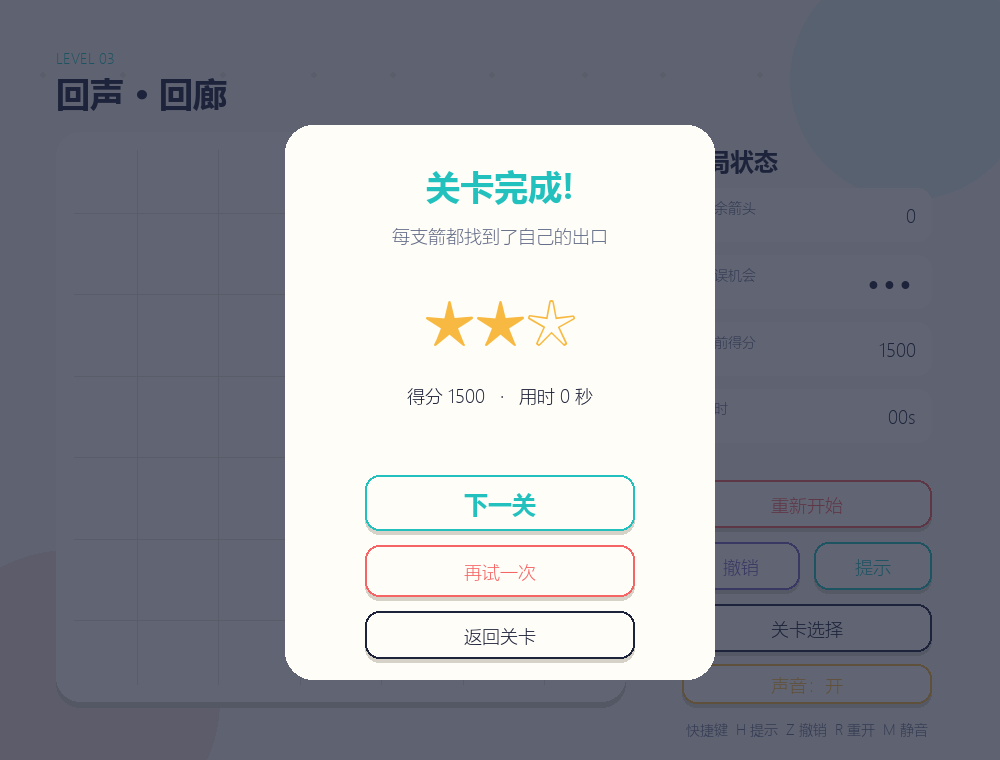
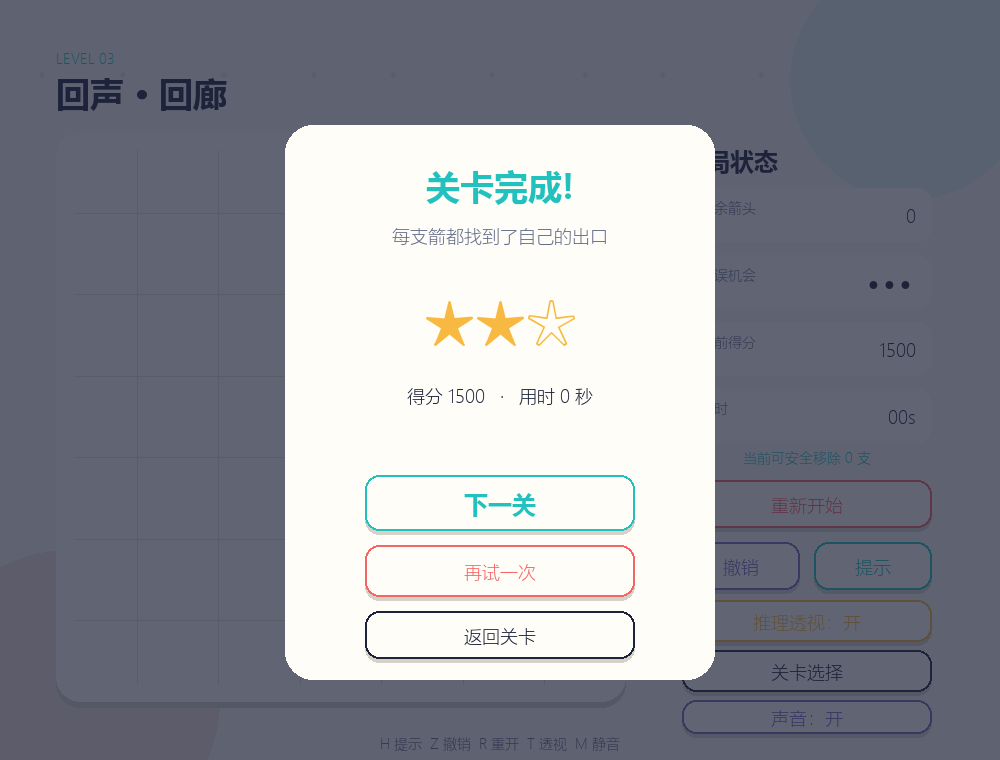
"feat:add-explainable-reasoning-view"

diff --git a/main.py b/main.py
@@ -52,6 +52,7 @@ class GameApp:
         self.blocked_pos: tuple[int, int] | None = None
         self.hint_pos: tuple[int, int] | None = None
         self.hint_at = 0
+        self.reasoning_view = False
         self.toast = ""
         self.toast_at = 0
         self.unlocked, self.best_scores = self._load_progress()
@@ -93,6 +94,7 @@ class GameApp:
         self.flying.clear()
         self.blocked_pos = None
         self.hint_pos = None
+        self.reasoning_view = False
 
     def elapsed(self) -> int:
         if self.finished_elapsed is not None:
@@ -150,9 +152,14 @@ class GameApp:
             return
         if buttons[3].hit(position):
             self.audio.play("button")
-            self.scene = "levels"
+            self.reasoning_view = not self.reasoning_view
+            self.toast_message("推理透视已开启：绿线可走，红线被阻挡" if self.reasoning_view else "推理透视已关闭")
             return
         if buttons[4].hit(position):
+            self.audio.play("button")
+            self.scene = "levels"
+            return
+        if buttons[5].hit(position):
             enabled = self.audio.toggle()
             self.toast_message("声音已开启" if enabled else "声音已关闭")
             return
@@ -197,8 +204,9 @@ class GameApp:
             Button(pygame.Rect(682, 480, 250, 48), "重新开始", CORAL),
             Button(pygame.Rect(682, 542, 118, 48), "撤销", LAVENDER, bool(self.state.history)),
             Button(pygame.Rect(814, 542, 118, 48), "提示", CYAN),
-            Button(pygame.Rect(682, 604, 250, 48), "关卡选择", INK),
-            Button(pygame.Rect(682, 664, 250, 40), self.audio.label, GOLD),
+            Button(pygame.Rect(682, 600, 250, 42), f"推理透视：{'开' if self.reasoning_view else '关'}", GOLD),
+            Button(pygame.Rect(682, 650, 250, 42), "关卡选择", INK),
+            Button(pygame.Rect(682, 700, 250, 34), self.audio.label, LAVENDER),
         ]
 
     def handle_event(self, event: pygame.event.Event) -> None:
@@ -220,6 +228,9 @@ class GameApp:
                     self.hint_at = pygame.time.get_ticks()
             elif event.key == pygame.K_m:
                 self.audio.toggle()
+            elif event.key == pygame.K_t and self.scene == "game":
+                self.reasoning_view = not self.reasoning_view
+                self.toast_message("推理透视已开启" if self.reasoning_view else "推理透视已关闭")
         if event.type != pygame.MOUSEBUTTONDOWN or event.button != 1:
             return
         pos = event.pos
@@ -325,6 +336,9 @@ class GameApp:
             pygame.draw.line(self.surface, (226, 222, 212), (x, board.top + 18), (x, board.bottom - 18))
             pygame.draw.line(self.surface, (226, 222, 212), (board.left + 18, y), (board.right - 18, y))
 
+        if self.reasoning_view:
+            self.draw_reasoning_paths(board, cell)
+
         palette = {"UP": CYAN, "DOWN": CORAL, "LEFT": GOLD, "RIGHT": LAVENDER}
         for arrow in self.state.arrows.values():
             center = list(self.cell_center(arrow.row, arrow.col))
@@ -351,6 +365,28 @@ class GameApp:
         if self.state.status is not GameStatus.PLAYING:
             self.draw_result_overlay()
 
+    def draw_reasoning_paths(self, board: pygame.Rect, cell: float) -> None:
+        """Expose the scan algorithm as an explainable, player-facing overlay."""
+        overlay = pygame.Surface(WINDOW_SIZE, pygame.SRCALPHA)
+        for arrow in self.state.arrows.values():
+            start = self.cell_center(arrow.row, arrow.col)
+            blocker = self.state.blocker_for(arrow.row, arrow.col)
+            dr, dc = arrow.direction.delta
+            if blocker is None:
+                distance = max(self.state.level.size, 2) * cell
+                end = (start[0] + dc * distance, start[1] + dr * distance)
+                end = (
+                    min(board.right - 10, max(board.left + 10, end[0])),
+                    min(board.bottom - 10, max(board.top + 10, end[1])),
+                )
+                color = (*CYAN, 95)
+            else:
+                end = self.cell_center(blocker.row, blocker.col)
+                color = (*CORAL, 105)
+                pygame.draw.circle(overlay, (*CORAL, 150), (round(end[0]), round(end[1])), max(8, int(cell * .14)), 3)
+            pygame.draw.line(overlay, color, start, end, max(3, int(cell * .055)))
+        self.surface.blit(overlay, (0, 0))
+
     def draw_sidebar(self) -> None:
         x = 682
         self.draw_text("本局状态", "h2", INK, (x, 144))
@@ -368,7 +404,10 @@ class GameApp:
             self.draw_text(value, "body", INK, (rect.right - 16, rect.centery), "midright")
         for button in self.game_buttons():
             button.draw(self.surface, self.fonts["body"], pygame.mouse.get_pos())
-        self.draw_text("快捷键  H 提示  Z 撤销  R 重开  M 静音", "small", MUTED, (807, 728), "center")
+        safe_count = len(self.state.safe_arrows())
+        insight = f"当前可安全移除 {safe_count} 支" if self.reasoning_view else "T 开关推理透视"
+        self.draw_text(insight, "small", CYAN if self.reasoning_view else MUTED, (807, 456), "center")
+        self.draw_text("H 提示  Z 撤销  R 重开  T 透视  M 静音", "small", MUTED, (500, 742), "center")
 
     def draw_result_overlay(self) -> None:
         shade = pygame.Surface(WINDOW_SIZE, pygame.SRCALPHA)
@@ -424,8 +463,10 @@ class GameApp:
         self.draw()
         pygame.image.save(self.surface, output_dir / "02_levels.png")
         self.start_level(2)
+        self.reasoning_view = True
         self.draw()
         pygame.image.save(self.surface, output_dir / "03_game.png")
+        pygame.image.save(self.surface, output_dir / "06_reasoning.png")
         while self.state.status is GameStatus.PLAYING:
             hint = self.state.hint()
             if hint is None:

diff --git a/tests/test_game_state.py b/tests/test_game_state.py
@@ -102,6 +102,13 @@ class DirectionAndExtraFeatureTests(unittest.TestCase):
         self.assertIsNotNone(hint)
         self.assertTrue(game.can_exit(hint.row, hint.col))
 
+    def test_reasoning_view_can_explain_first_blocker(self) -> None:
+        game = GameState(0)
+        blocker = game.blocker_for(2, 2)
+        self.assertIsNotNone(blocker)
+        self.assertEqual((2, 4), (blocker.row, blocker.col))
+        self.assertIsNone(game.blocker_for(0, 2))
+
     def test_every_level_is_solvable_and_uses_all_directions(self) -> None:
         for index, level in enumerate(LEVELS):
             with self.subTest(level=index + 1):

diff --git a/game_state.py b/game_state.py
@@ -79,6 +79,11 @@ class GameState:
         arrow = self.arrows.get((row, col))
         return arrow is not None and self._first_blocker(arrow) is None
 
+    def blocker_for(self, row: int, col: int) -> Arrow | None:
+        """Return the first visible blocker for UI explanations, if any."""
+        arrow = self.arrows.get((row, col))
+        return self._first_blocker(arrow) if arrow is not None else None
+
     def _remember(self) -> None:
         self.history.append(Snapshot(
             self.arrows.copy(), self.mistakes, self.score, self.status, self.hints_used

diff --git a/docs/BLOG_DRAFT.md b/docs/BLOG_DRAFT.md
@@ -1,6 +1,6 @@
 # 软件工程第二次个人作业：用 Python + AIGC 完成《一箭又一箭》
 
-> 发布前请替换 3 处 `【待填写】`，并将本文中的截图上传到博客图床或使用 GitHub Raw 链接。
+> 本文如实记录了 AIGC 辅助、人工试玩、自动测试和竞品分析过程。发布前只需补充作业链接与学号。
 
 | 项目 | 内容 |
 | --- | --- |
@@ -16,27 +16,67 @@
 
 ### 开始与关卡选择
 
-![开始界面](../assets/screenshots/01_start.png)
+![开始界面](https://raw.githubusercontent.com/Luminance-l/OneArrowGame/main/assets/screenshots/01_start.png)
 
-![关卡选择](../assets/screenshots/02_levels.png)
+![关卡选择](https://raw.githubusercontent.com/Luminance-l/OneArrowGame/main/assets/screenshots/02_levels.png)
 
 ### 游戏过程
 
-![游戏界面](../assets/screenshots/03_game.png)
+![游戏界面](https://raw.githubusercontent.com/Luminance-l/OneArrowGame/main/assets/screenshots/03_game.png)
+
+### 推理透视
+
+![推理透视](https://raw.githubusercontent.com/Luminance-l/OneArrowGame/main/assets/screenshots/06_reasoning.png)
+
+按 `T` 或点击“推理透视”可以把路径判断过程直接画在棋盘上：绿色表示前方无遮挡，红色表示被其他箭头阻挡，红圈标出第一个阻挡物。该功能默认关闭，不替玩家自动通关；它更像一张可以随时打开的“解题草稿纸”。
 
 ### 通关与失败
 
-![通关界面](../assets/screenshots/04_clear.png)
+![通关界面](https://raw.githubusercontent.com/Luminance-l/OneArrowGame/main/assets/screenshots/04_clear.png)
 
-![失败界面](../assets/screenshots/05_failed.png)
+![失败界面](https://raw.githubusercontent.com/Luminance-l/OneArrowGame/main/assets/screenshots/05_failed.png)
 
 ## 二、项目介绍
 
 棋盘中的每支箭只占一个格子，方向分为上、下、左、右。玩家点击箭头后，程序沿其朝向检查同一行或同一列：如果箭头和边界之间没有其他箭头，它会飞出棋盘；否则箭头会变红并晃动，界面显示 `BLOCKED`，同时失去一次机会。三次机会耗尽则失败，清空棋盘则进入下一关。
 
-基础功能之外，我实现了五关、关卡选择、计时与得分、星级评价、提示、撤销、本地进度保存、AI 自动求解，以及背景轻音乐和情境音效。附加功能没有改变基础规则，主要目的是提升可玩性和可测试性。
+基础功能之外，我实现了五关、关卡选择、计时与得分、星级评价、提示、撤销、本地进度保存、AI 自动求解、推理透视，以及背景轻音乐和情境音效。附加功能没有改变基础规则，主要目的是提升可玩性、可解释性和可测试性。
 
-## 三、实现思路
+## 三、竞品与市场思考
+
+> 数据检索时间：2026-09-21。下载量和评分会随时间变化；下面的市场判断是根据公开商店信息做出的推断，不等同于厂商收入数据。
+
+### 1. 市面上有哪些竞品
+
+| 类型与代表产品 | 公开表现 | 做得好的地方 | 相对不足或风险 |
+| --- | --- | --- | --- |
+| 全球 3D Tap Away： [Tap Away 3D](https://apps.apple.com/us/app/tap-away-3d/id1568058543) | App Store 约 22.8 万条评分、4.4 分；Google Play 显示 5000 万+下载 | 3D 旋转、皮肤和主题带来强视觉反馈，内容量和商业化体系成熟 | 安装包约 469 MB，开发成本高；广告、内购和同类产品很多，已是红海 |
+| 混合玩法： [Unpuzzle: Tap Away & Car Out](https://apps.apple.com/us/app/unpuzzle-tap-away-car-out/id1596319487) | App Store 约 4.4 万条评分、4.6 分 | 将 Tap Away 与停车解谜组合，内容变化多，生命周期更长 | 规则更复杂、体量约 395 MB，纯粹的“观察—推理—消除”体验被稀释 |
+| 国内移动箭头解谜： [箭了个箭](https://apps.apple.com/cn/app/%E7%AE%AD%E4%BA%86%E4%B8%AA%E7%AE%AD-%E7%AE%AD%E5%A4%B4%E5%90%91%E5%89%8D%E5%86%B2/id6755886795)、[箭了又箭消消](https://game.xiaomi.com/game/62424014) | 前者约 4265 个评分、4.6 分并进入益智解谜榜；后者是 9 MB 安卓轻量游戏 | 一秒上手，适合通勤和小游戏渠道；通过传送门、转向等机制持续加料 | 核心交互接近，名称和美术容易同质化，竞争最后常变成关卡数量与买量能力 |
+| 浏览器轻游戏： [Arrows](https://www.crazygames.com/game/arrows-bmj) | 无需安装，可直接在网页运行 | 进入成本最低，规则与碰撞反馈直观 | 平台替代品多，用户停留和品牌沉淀相对困难 |
+
+### 2. 哪些市场更好，哪些一般
+
+我认为“更好”要拆成市场规模和独立开发者机会两个维度：
+
+1. **全球移动 3D 休闲市场规模最好，但进入难度也最高。** Tap Away 的 5000 万+下载证明需求真实；同时成熟产品已有 3D 美术、海量关卡、皮肤、活动与投放体系。个人项目若只把 2D 改成 3D，很难形成竞争壁垒。
+2. **国内微信/安卓轻量箭头小游戏仍有传播机会，但同质化最严重。** 规则学习成本低、单局时间短，非常适合碎片场景；相反，玩法容易复刻，如果没有新机制或持续关卡供给，热度也容易快速消退。
+3. **纯 PC 单机商业市场表现一般，但“开源 + 教学 + 可解释解谜”更适合本项目。** 它不一定带来最大的用户量，却能服务编程学习、算法展示和无广告离线玩家，和本次软件工程作业的目标高度一致。
+
+因此，我没有追求“做一个更小的商业复制品”，而是选择体量较小但逻辑完整的方向：让玩家不仅知道哪支箭可以点，还能看懂程序为什么这样判断。
+
+### 3. 我的差异化与不可替代性
+
+我不认为当前作品在商业上“不可替代”——基础点击规则很容易被复现。更准确的说法是，它形成了一个同类轻游戏中少见的组合：
+
+- **可解释玩法：** 推理透视把扫描算法可视化，绿线代表安全出口，红线和红圈解释具体阻挡关系。它既是辅助功能，也是算法教学工具。
+- **可证明的关卡质量：** 每关不是只靠人工声称“应该能过”，而是由 BFS 给出完整解，再由自动测试防止后续修改破坏可解性。
+- **规则层可复用：** `GameState` 完全不依赖 Pygame，可以用于测试、命令行演示或以后接入其他界面。
+- **克制且透明：** 游戏离线运行、无广告、无内购，不收集数据；代码、关卡、矢量界面和程序化音频均可检查和复现。
+
+真正较难替代的不是某一个按钮，而是“原创关卡 + 可解释提示 + 求解器证明 + 自动测试 + 开源过程记录”这一整套可信开发链路。这也是我在竞品分析后新增推理透视，而不是盲目堆叠特效的原因。
+
+## 四、实现思路
 
 ### 1. 数据结构
 
@@ -74,7 +114,11 @@ return None
 
 第 5 关初版就被求解器发现不可解，这比只依赖肉眼试玩更可靠。修改一支箭方向后，5 个关卡分别得到 6、10、15、17、24 步完整解。
 
-## 四、AIGC 使用过程
+### 5. 推理透视如何解释算法
+
+透视模式遍历当前所有箭头，复用与点击判定完全相同的 `blocker_for()`。若没有阻挡，就沿方向画到棋盘边缘；若有阻挡，就把射线终止在首个阻挡箭头并加红圈。因此画面解释与真实规则来自同一个数据源，不会出现“提示说能走、实际却扣机会”的两套逻辑。
+
+## 五、AIGC 使用过程
 
 我使用 OpenAI Codex 辅助需求拆解、编码、测试与文档整理，下面是最有代表性的四次协作。
 
@@ -84,10 +128,11 @@ return None
 | 路径检测 | Codex | 方向枚举与逐格扫描 | T01–T03、四方向测试通过 | 增加边缘朝外、首个阻挡物用例 |
 | 关卡设计 | Codex | 5 个关卡与 BFS 求解器 | 首次发现第 5 关不可解 | 将 `(3,1)` 从 UP 改为 LEFT，复测得到 24 步解 |
 | UI 与动画 | Codex | 矢量箭头、飞出淡出、碰撞晃动、截图模式 | 首次截图按钮出现方框字 | 删除不兼容字符，并修复结算计时继续增长 |
+| 竞品与差异化 | Codex | 检索竞品并提出推理透视 | 将后台算法转为玩家可见的绿/红路径解释 | 默认关闭避免降低难度，新增 `T` 开关和回归测试 |
 
 我体会到，AIGC 可以快速产出结构完整的初稿，但不会自动保证关卡可解，甚至测试代码本身也可能写错。只有真正运行、观察失败信息并设计回归测试，AI 输出才会变成可靠的软件。
 
-## 五、测试结果
+## 六、测试结果
 
 我将课程规定的 6 个测试全部写成自动化测试，并增加四方向、撤销、提示、全关卡可解性和音频资源完整性测试。
 
@@ -106,9 +151,9 @@ return None
 python -m unittest discover -s tests -v
 ```
 
-最终结果为 **11/11 通过**。此外还生成五张界面截图，逐张检查了字体、裁切、遮挡和按钮状态，并实际验证背景音乐与四类情境音效能够正常播放。
+最终结果为 **12/12 通过**。此外还生成六张界面截图，逐张检查了字体、裁切、遮挡和按钮状态，并实际验证推理透视、背景音乐与四类情境音效能够正常工作。
 
-## 六、PSP 表格
+## 七、PSP 表格
 
 | 任务 | 预估耗时（小时） | 实际耗时（小时） | 差异 |
 | --- | ---: | ---: | ---: |
@@ -120,13 +165,16 @@ python -m unittest discover -s tests -v
 | AIGC 辅助开发 | 1.0 | 0.8 | -0.2 |
 | 测试与修改 | 1.2 | 0.9 | -0.3 |
 | README 与博客撰写 | 1.5 | 1.1 | -0.4 |
-| **合计** | **9.8** | **6.5** | **-3.3** |
+| 竞品分析与推理透视 | 0.8 | 0.6 | -0.2 |
+| **合计** | **10.6** | **7.1** | **-3.5** |
 
-## 七、心得体会
+## 八、心得体会
 
 这次作业让我感受最深的不是 Pygame 绘图，而是“看起来能玩”和“可以证明正确”之间的差别。路径扫描只有十几行，但方向、起点和边界任何一个细节都可能导致错误；关卡看起来很丰富，也可能形成互相阻挡的死环。
 
 Codex 帮我快速搭好了结构、界面和测试初稿，但实际运行仍发现了不可解关卡、错误测试坐标、字体缺字和计时问题。解决这些问题时，我学会了把 UI 与规则拆开、用小测试定位错误、用求解器验证关卡，而不是反复手点碰运气。
 
-如果继续完善，我会加入音量可调的原创音效、关卡编辑器和打包后的可执行文件。不过就本次作业而言，我更愿意保持规则清楚、依赖简单、测试充分，让别人按照 README 可以一次运行成功。
+竞品分析也让我意识到，“功能更多”不等于“产品更独特”。3D、皮肤和海量关卡是成熟商业产品的优势，个人作业很难正面竞争；把已有算法转化为推理透视，反而更符合项目规模，也让软件工程中的“可解释、可验证”成为玩家能看到的体验。
+
+如果继续完善，我会加入关卡编辑器和可执行文件打包，并让玩家导出自己设计且经求解器验证的关卡。不过就本次作业而言，我更愿意保持规则清楚、依赖简单、测试充分，让别人按照 README 可以一次运行成功。
 

diff --git a/docs/TEST_REPORT.md b/docs/TEST_REPORT.md
@@ -28,6 +28,7 @@
 | T09 | AI 提示 | 返回的箭头经 `can_exit` 复验为安全 | 通过 |
 | T10 | 所有关卡可解且包含四种方向 | 5 关完整解长度分别为 6、10、15、17、24，四方向集合完整 | 通过 |
 | T11 | 原创音频资源完整性 | 6 个 WAV 均为 22050Hz、16-bit 单声道且包含有效采样 | 通过 |
+| T12 | 推理透视的阻挡解释 | `(2,2)` 正确指向首个阻挡 `(2,4)`，无遮挡箭头返回空 | 通过 |
 
 ## 视觉与交互测试
 
@@ -41,6 +42,7 @@
 - 通关与失败遮罩层不会遮挡其自身操作按钮；
 - 结算时计时冻结，不会因停留结果页而降低星级。
 - 背景音乐能够循环播放；飞出、点错、失败和通关分别触发对应音效；`M` 键和界面按钮均可静音。
+- 推理透视开启后，安全路径显示绿色射线，受阻路径显示红色射线并圈出首个阻挡物；布局无新增遮挡。
 
 ## 缺陷发现与修复
 
@@ -51,4 +53,4 @@
 
 ## 结论
 
-自动测试 11/11 通过，课程规定的 T01–T06 全部满足。5 个关卡均经算法验证可通关；发布前仍建议提交者至少完整人工试玩前三关，并在自己的电脑上复核音量、字体和窗口缩放表现。
+自动测试 12/12 通过，课程规定的 T01–T06 全部满足。5 个关卡均经算法验证可通关；发布前仍建议提交者至少完整人工试玩前三关，并在自己的电脑上复核音量、字体和窗口缩放表现。

diff --git a/docs/AIGC_RECORD.md b/docs/AIGC_RECORD.md
@@ -66,3 +66,13 @@ AIGC 最有价值的地方不是一次生成很多代码，而是快速给出可
 | 实际效果 | Pygame 能循环播放背景音乐，不同状态触发独立 WAV；增加 `M` 键和声音按钮 |
 | 人工判断/调整 | 将音乐音量降低到 24%，音效分别设定音量；增加音频设备不可用时的安全降级和 WAV 自动测试 |
 
+## 记录 7：竞品分析与可解释玩法
+
+| 项目 | 内容 |
+| --- | --- |
+| 子任务 | 分析同类产品并寻找玩家能够直接感知的差异点 |
+| 给 AI 的要求 | 比较 2D 箭头消除、3D Tap Away 和网页轻游戏，不夸大优势；若差异不足就修改游戏 |
+| AI 提供 | 竞品矩阵与“推理透视”方案：把路径扫描结果绘制为绿/红射线，并标出首个阻挡物 |
+| 实际效果 | 玩家无需盲点即可理解箭头为什么能走或被谁阻挡，算法从后台验证工具变成前台教学功能 |
+| 人工判断/调整 | 保留默认关闭，避免降低正常闯关难度；支持按钮与 `T` 键切换，并新增阻挡解释回归测试 |
+
